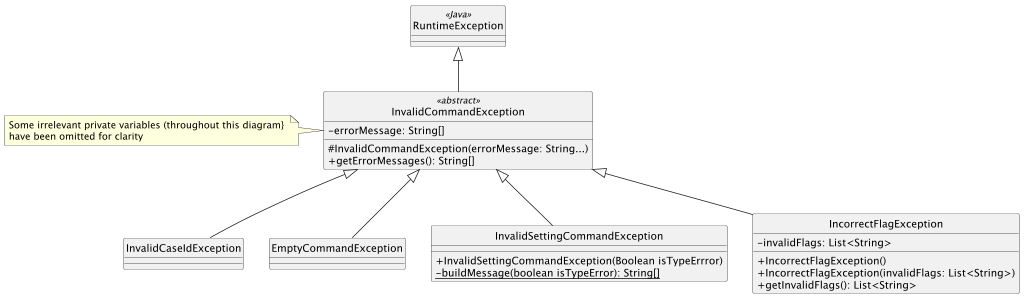
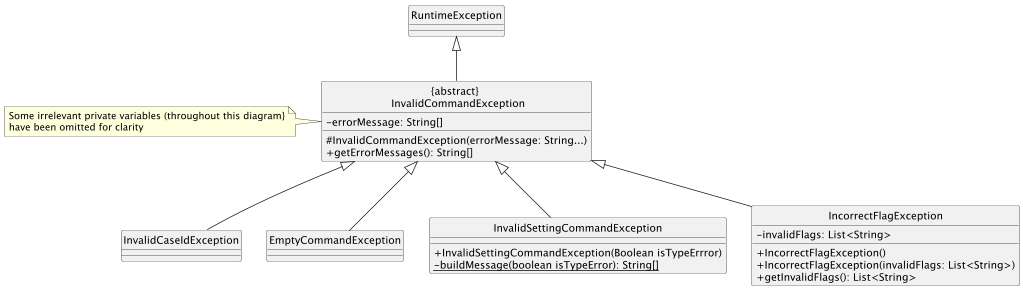
Update DG for clarity

diff --git a/src/main/java/seedu/sgsafe/utils/command/FindCommand.java b/src/main/java/seedu/sgsafe/utils/command/FindCommand.java
@@ -12,6 +12,7 @@ public class FindCommand extends Command {
     private final String keyword;
 
     public FindCommand(String keyword) {
+        this.commandType = CommandType.FIND;
         this.keyword = keyword;
     }
 

diff --git a/src/main/java/seedu/sgsafe/utils/command/CommandType.java b/src/main/java/seedu/sgsafe/utils/command/CommandType.java
@@ -9,6 +9,7 @@ public enum CommandType {
     DELETE,
     BYE,
     HELP,
+    FIND,
     SETTING,
     READ
 }

diff --git a/docs/DeveloperGuide.md b/docs/DeveloperGuide.md
@@ -191,14 +191,18 @@ subclass.
 Each different command is represented by a subclass of the abstract `Command` class, encapsulating the logic for that
 specific command. In addition, each command class may have its own attributes to store parameters needed for execution.
 
-The following diagram illustrates the structure of the command component and some of the noteworthy methods in the
-commands.
-
-> ℹ Note: Only non-trivial fields and methods are shown in the above diagram.\
-> ℹ UML Info: Due to the limitation of plantUML, the diagram is shown top down for best visibility, instead of the
-> usual left to right.
+The following diagram illustrates the structure of the command component that interacts and edit the cases
+and some of the noteworthy methods in the commands. 
 
 ![CommandClassDiagram](images/CommandClassDiagram.png)
+
+The following diagram illustrates the structure of the command component that does not edit the cases but plays an important
+supporting role in the application.
+
+![SupportingCommandClassDiagram](images/SupportingCommandClassDiagram.png)
+
+> ℹ Note: Only non-trivial fields and methods are shown in the above diagram.\
+
 
 #### Key Classes
 
@@ -351,7 +355,7 @@ Priorities: High (must have) - `* * *`, Medium (nice to have) - `* *`, Low (unli
 
 ## Appendix C: Non-Functional Requirements
 
-- Should work on any mainstream OS as long as it has Java 17 or above installed.
+- Should work on any mainstream OS as long as it has Java 17 installed.
 - Should be able to hold up to 1000 cases without a noticeable sluggishness in performance for typical usage.
 - A user with above average typing speed for regular English text (i.e. not code, not system admin commands) should be
   able to accomplish most of the tasks faster using commands than using the mouse.
@@ -376,7 +380,7 @@ Priorities: High (must have) - `* * *`, Medium (nice to have) - `* *`, Low (unli
 
 ## Appendix E: Instructions for manual testing
 
-Given below are the instructions for manual testing of SGSafe.
+Given below are the instructions for manual testing of SGSafe. Please note that NOT all commands have been listed.
 
 ### Launch and Startup
 
@@ -470,4 +474,4 @@ Given below are the instructions for manual testing of SGSafe.
     - Expected: Previously added case is still present after restart.
 
 The above test cases are not exhaustive and meant to cover the main functionalities of SGSafe.
-Please see the user guide for more details on how to use SGSafe and explore additional commands and features.
+Please see the [user guide](https://ay2526s1-cs2113-w13-3.github.io/tp/UserGuide.html) for more details on how to use SGSafe and explore additional commands and features.
